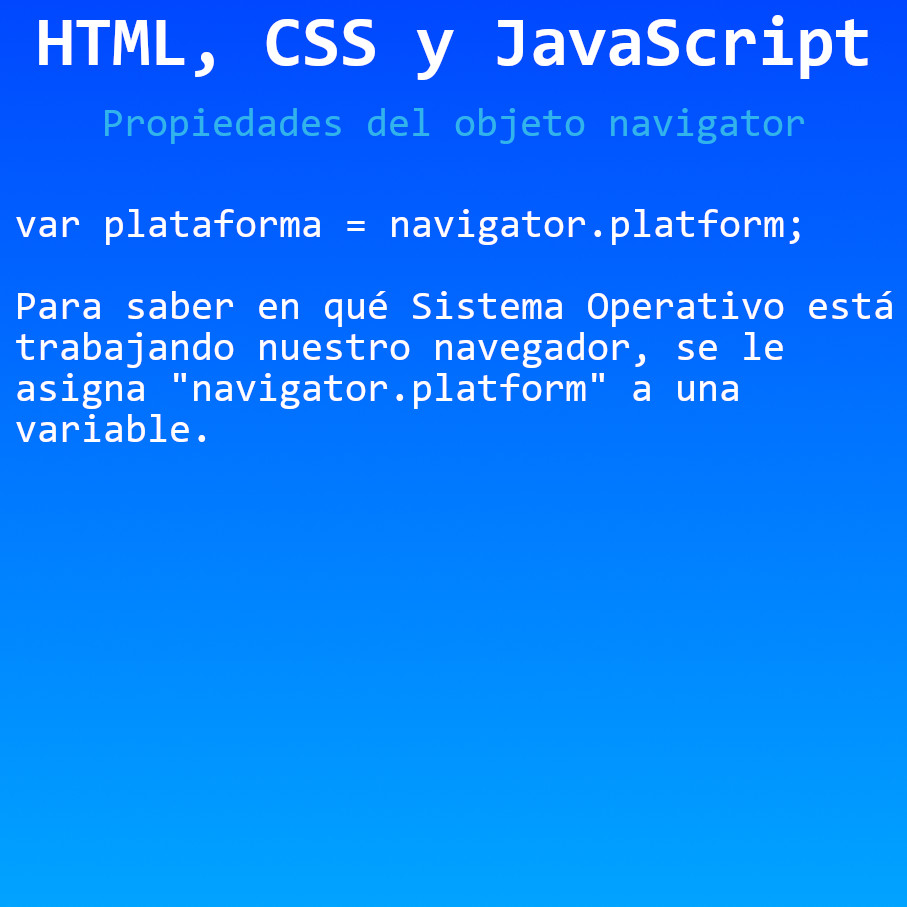
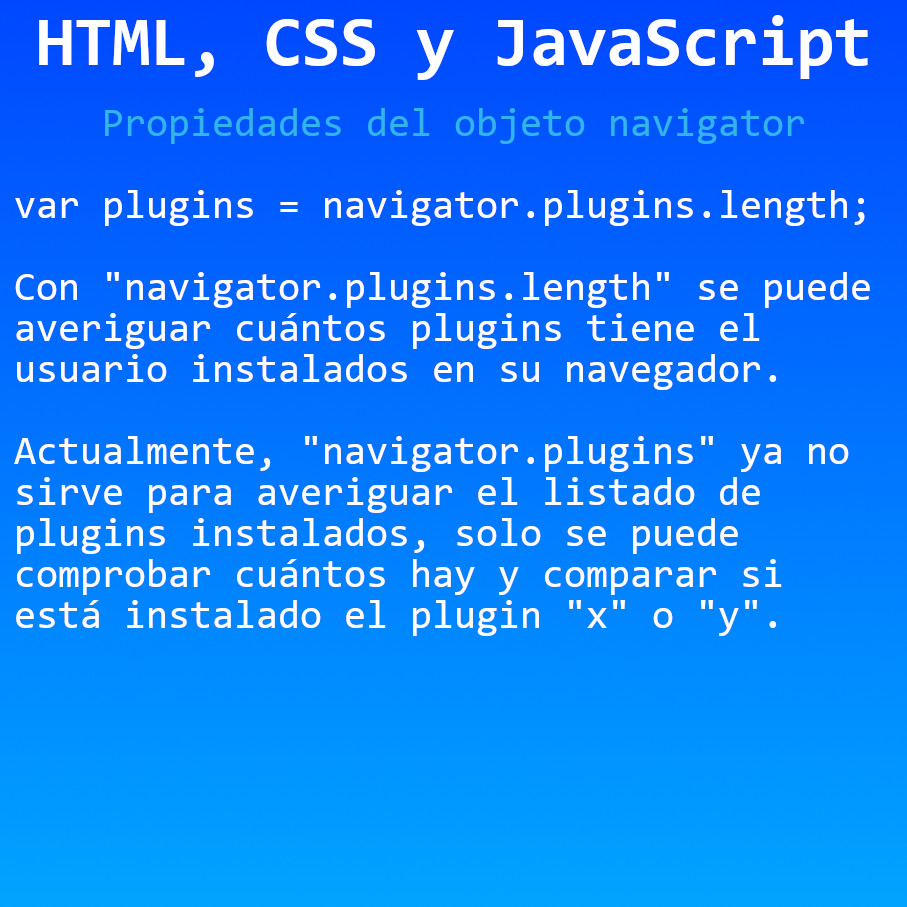
Propiedades del objeto navigator
Propiedades del objeto navigator en JavaScript

Changed region(s): [[0.0, 0.3087, 0.9879, 0.71], [0.0, 0.2161, 0.957, 0.2778], [0.8953, 0.4939, 0.957, 0.5248]]

diff --git a/HTML, CSS y JavaScript/Propiedades del objeto navigator/js/funciones.js b/HTML, CSS y JavaScript/Propiedades del objeto navigator/js/funciones.js
@@ -22,3 +22,9 @@ var plataforma = navigator.platform;
 document.write("Plataforma: "+plataforma+".");
 // SEPARACIÓN
 document.write("<hr>");
+// AVERIGUAR CANTIDAD DE PLUGINS INSTALADOS EN EL NAVEGADOR
+var plugins = navigator.plugins.length;
+// mostrar en pantalla
+document.write("Plugins: "+plugins+".");
+// SEPARACIÓN
+document.write("<hr>");
